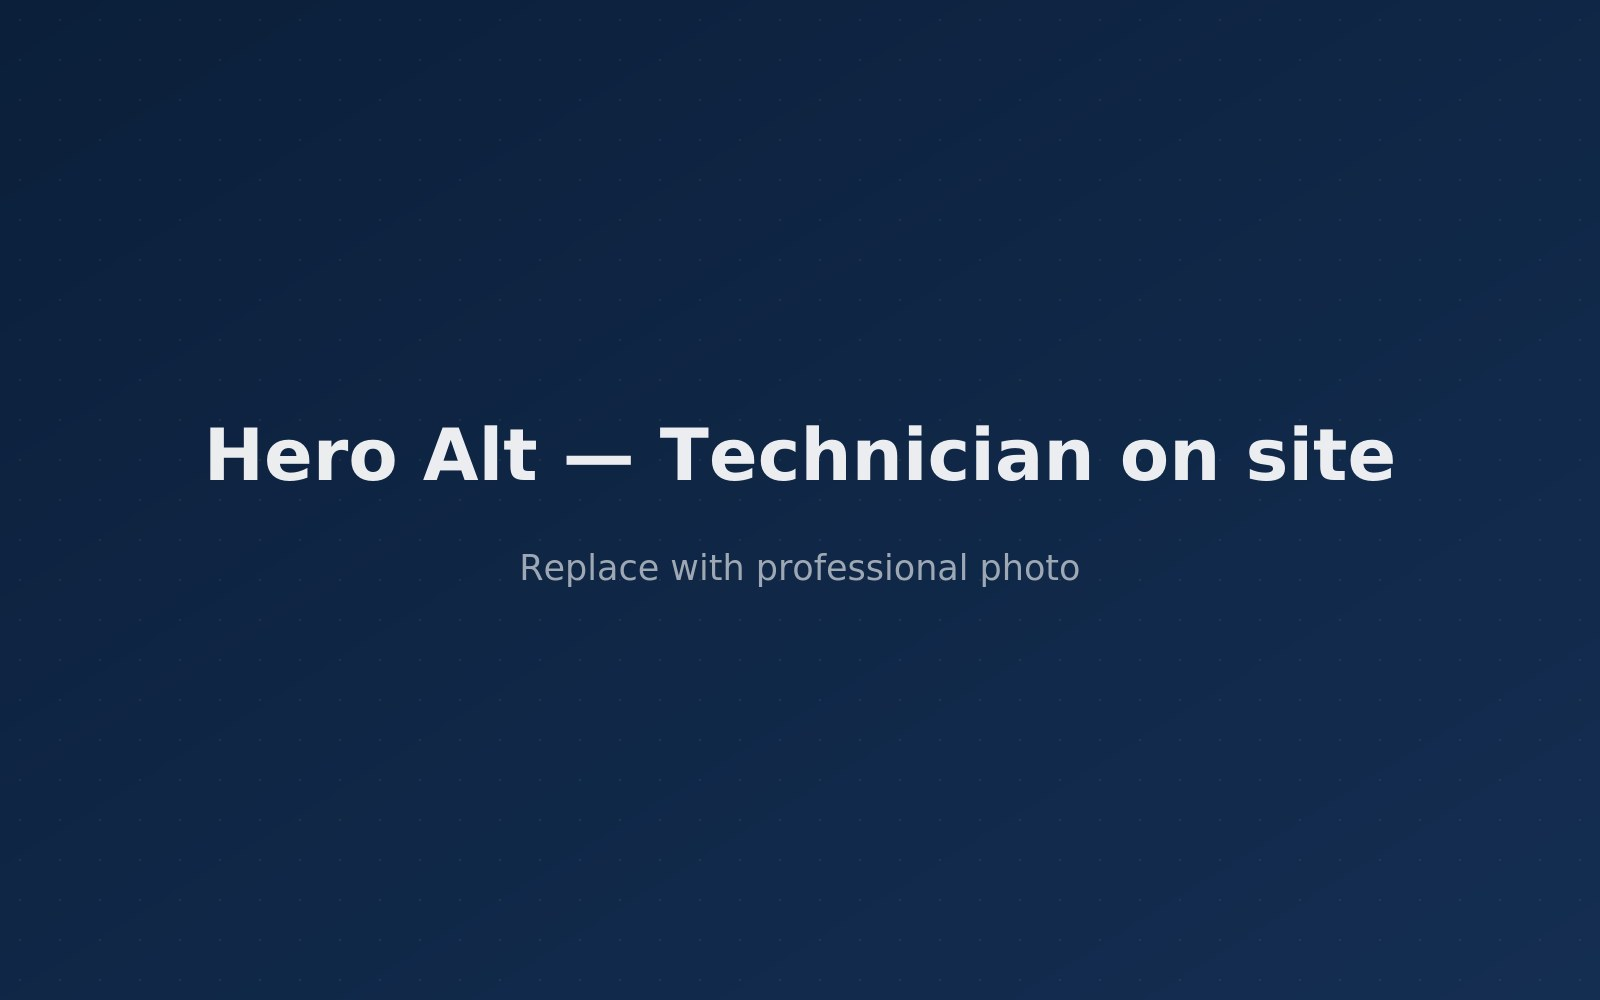
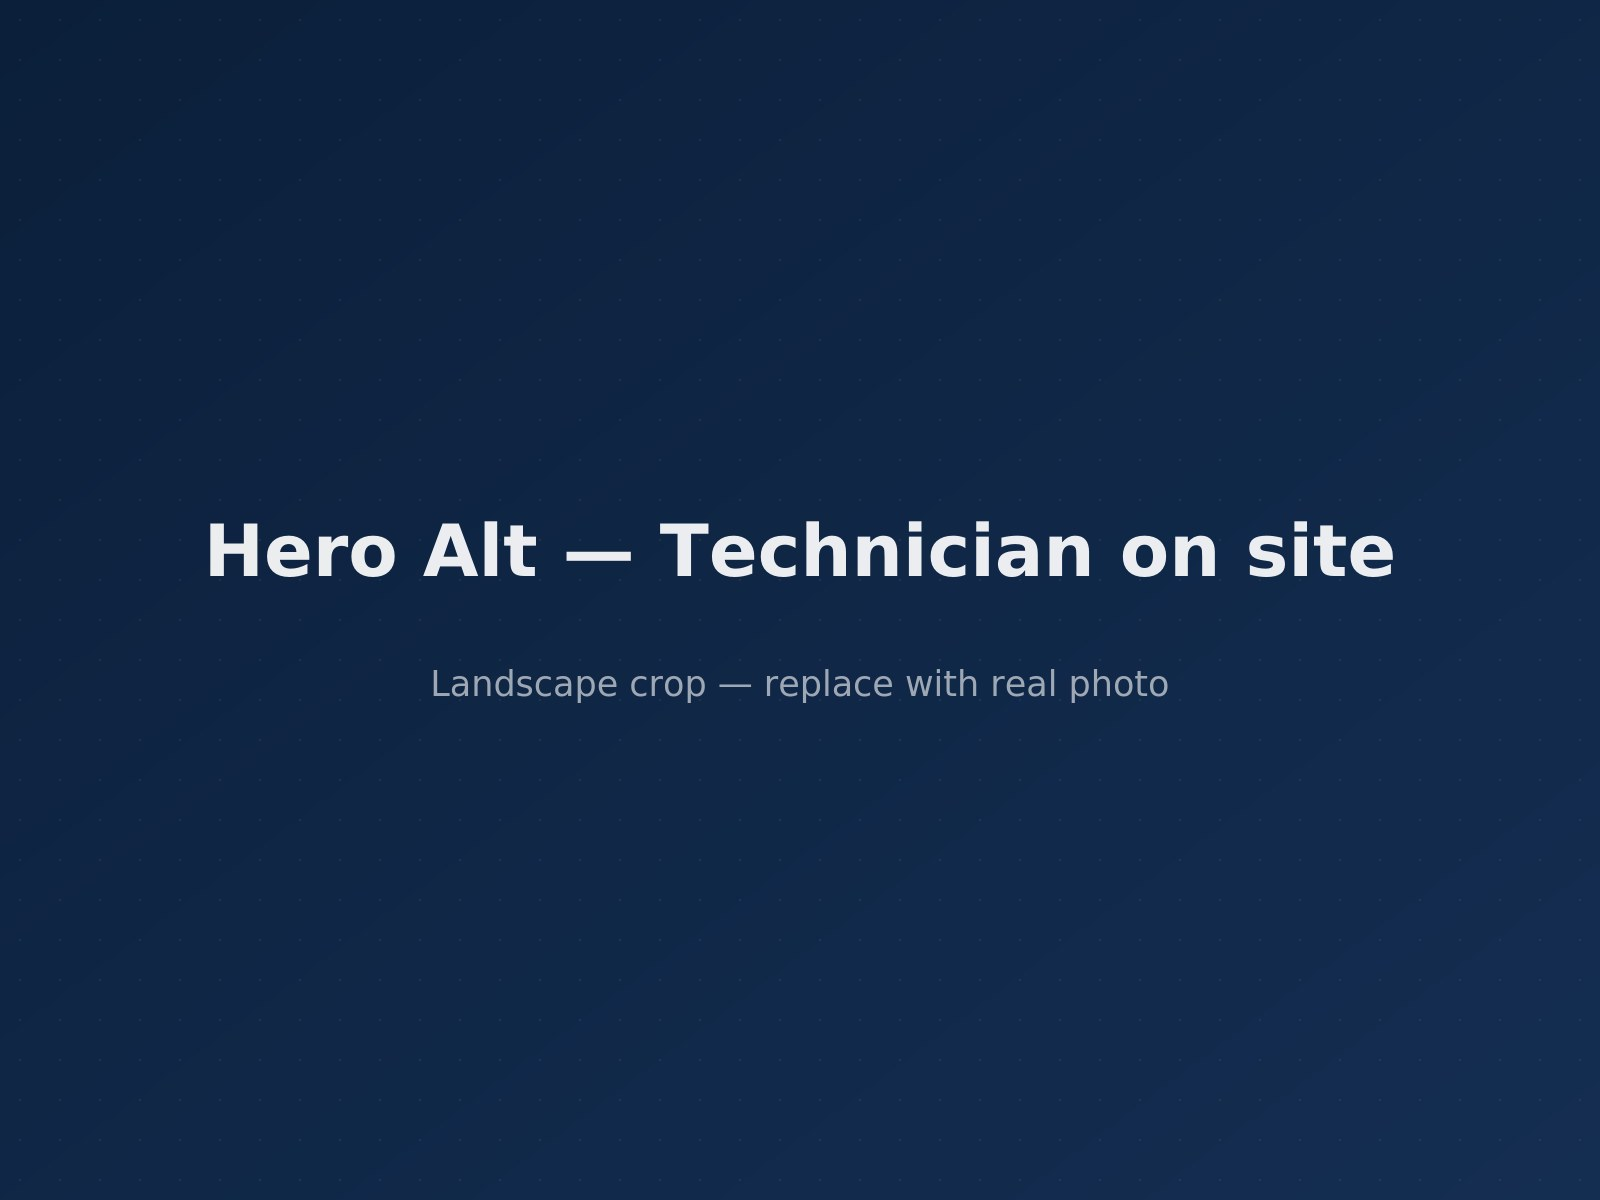
Update plumbing website

Changed region(s): [[0.125, 0.403, 0.75, 0.465], [0.2812, 0.558, 0.75, 0.589], [0.7812, 0.434, 0.875, 0.496]]

diff --git a/index.html b/index.html
@@ -84,24 +84,29 @@
         </div>
       </div>
 
-      <div class="response-card" aria-hidden="false">
-        <div class="radar">
-          <div class="radar-sweep"></div>
-          <div class="radar-dot" style="top:38%;left:62%;"></div>
-          <div class="radar-dot" style="top:66%;left:34%;width:7px;height:7px;"></div>
+      <div class="hero-visual">
+        <div class="hero-image-wrap">
+          <img src="images/hero/hero-plumber.jpg" alt="Licensed Plumbing Services technician at work on a plumbing installation in Nairobi" class="hero-image" width="1600" height="1000">
         </div>
-        <div class="response-figures">
-          <div>
-            <span class="num">22 min</span>
-            <span class="lbl">Avg. Response</span>
+        <div class="response-card hero-floating-card" aria-hidden="false">
+          <div class="radar">
+            <div class="radar-sweep"></div>
+            <div class="radar-dot" style="top:38%;left:62%;"></div>
+            <div class="radar-dot" style="top:66%;left:34%;width:7px;height:7px;"></div>
           </div>
-          <div>
-            <span class="num">24/7</span>
-            <span class="lbl">Always On Call</span>
-          </div>
-          <div>
-            <span class="num">186+</span>
-            <span class="lbl">5★ Reviews</span>
+          <div class="response-figures">
+            <div>
+              <span class="num">22 min</span>
+              <span class="lbl">Avg. Response</span>
+            </div>
+            <div>
+              <span class="num">24/7</span>
+              <span class="lbl">Always On Call</span>
+            </div>
+            <div>
+              <span class="num">186+</span>
+              <span class="lbl">5★ Reviews</span>
+            </div>
           </div>
         </div>
       </div>

diff --git a/css/responsive.css b/css/responsive.css
@@ -20,7 +20,12 @@
   .header-actions .btn-navy, .header-actions .btn-whatsapp { display: none; }
   .nav-toggle { display: flex; }
   .hero-grid { grid-template-columns: 1fr; }
-  .response-card { max-width: 420px; margin-inline: auto; }
+  .hero-visual { margin-top: 12px; }
+  .hero-image-wrap { aspect-ratio: 16 / 10; }
+  .hero-floating-card.response-card {
+    position: static; left: auto; bottom: auto;
+    width: min(420px, 94%); margin: -56px auto 0;
+  }
   .areas-map-grid { grid-template-columns: 1fr; }
   .contact-grid { grid-template-columns: 1fr; }
   .footer-grid { grid-template-columns: 1fr 1fr; row-gap: 40px; }
@@ -40,6 +45,8 @@
   .coverage-list { columns: 1; }
   .hero-cta-row .btn, .cta-banner .hero-cta-row .btn { width: 100%; }
   .hero-cta-row, .cta-banner .hero-cta-row { flex-direction: column; }
+  .hero-image-wrap { aspect-ratio: 4 / 3; }
+  .hero-floating-card.response-card { margin-top: -40px; padding: 22px; }
   .trust-strip .container { justify-content: center; text-align: center; }
   .footer-bottom { flex-direction: column; text-align: center; }
 }

diff --git a/css/style.css b/css/style.css
@@ -218,6 +218,21 @@ p { margin: 0; }
 .hero-trust-item { display: flex; align-items: center; gap: 10px; font-size: 0.85rem; font-weight: 600; color: rgba(255,255,255,0.82); }
 .hero-trust-item svg { width: 20px; height: 20px; color: var(--gold-light); flex-shrink: 0; }
 
+/* Hero visual: large image with floating response card overlay */
+.hero-visual { position: relative; }
+.hero-image-wrap {
+  border-radius: var(--r-xl); overflow: hidden; box-shadow: var(--shadow-lg);
+  aspect-ratio: 4 / 5; border: 1px solid rgba(255,255,255,0.14);
+}
+.hero-image {
+  width: 100%; height: 100%; object-fit: cover; display: block;
+  animation: heroImageIn 1s .2s cubic-bezier(.2,.8,.2,1) both;
+}
+.hero-floating-card.response-card {
+  position: absolute; left: -28px; bottom: -34px; width: min(300px, 78%); z-index: 3;
+  background: rgba(11,31,58,0.72);
+}
+
 /* Signature element: live response radar */
 .response-card {
   position: relative; background: rgba(255,255,255,0.05); border: 1px solid rgba(255,255,255,0.14);

diff --git a/css/animations.css b/css/animations.css
@@ -28,6 +28,7 @@
 
 @keyframes heroUp { from { opacity: 0; transform: translateY(22px); } to { opacity: 1; transform: translateY(0); } }
 @keyframes heroScale { from { opacity: 0; transform: translateY(20px) scale(0.96); } to { opacity: 1; transform: translateY(0) scale(1); } }
+@keyframes heroImageIn { from { opacity: 0; transform: scale(1.06); } to { opacity: 1; transform: scale(1); } }
 
 /* Marquee-like trust strip micro entrance */
 .trust-strip-item { animation: fadeIn .6s ease both; }

diff --git a/image-shopping-list.md b/image-shopping-list.md
@@ -1,0 +1,78 @@
+# Image Shopping List — Plumbing Services Website
+
+35 placeholder slots, matched to search terms for **[Unsplash](https://unsplash.com)** and **[Pexels](https://pexels.com)** — both free for commercial use, no attribution required. Download, rename to the filename shown, and drop into the matching folder. Full replacement steps are in `README.md`.
+
+**Tip:** click a slot's folder link below, search the suggested term, and pick the photo that best matches the description column.
+
+---
+
+## `/images/hero/`
+
+| Filename | Recommended shape | Search term | What to look for |
+|---|---|---|---|
+| `hero-plumber.jpg` | Portrait/tall — crops to 4:5 on desktop, 16:10 on tablet, 4:3 on mobile. A vertical shot with the subject centered (not too close to the top/bottom edges) crops safely across all three. Minimum ~1400×1750px. | `plumber fixing pipe` or `professional plumber at work` | **Homepage hero** (`index.html`) — large image on the right side of the hero, with the "22 min avg. response" radar card floating over its bottom-left corner. Also used as the Open Graph/social preview image. |
+| `hero-plumber-2.jpg` | Landscape, 4:3. Minimum ~1600×1200px. | `plumber toolbox kneeling` or `plumber bathroom repair` | **About page** (`about.html`) — the "Our Story" section image, paired with the founding-story copy. |
+
+## `/images/services/` — 800×600px, landscape
+
+| Filename | Search term |
+|---|---|
+| `emergency-plumbing.jpg` | `emergency plumber burst pipe` |
+| `leak-detection.jpg` | `plumber leak detection equipment` |
+| `pipe-installation.jpg` | `copper pipe installation` |
+| `pipe-repairs.jpg` | `plumber pipe wrench repair` |
+| `drain-cleaning.jpg` | `drain cleaning jetting` |
+| `bathroom-renovation.jpg` | `modern bathroom renovation` |
+| `kitchen-plumbing.jpg` | `kitchen sink plumbing installation` |
+| `water-tank-installation.jpg` | `rooftop water tank` |
+| `pump-installation.jpg` | `water pump installation` |
+| `commercial-plumbing.jpg` | `commercial building plumbing` |
+| `residential-plumbing.jpg` | `home plumbing repair` |
+| `water-heater-installation.jpg` | `water heater installation` |
+| `toilet-installation.jpg` | `toilet installation bathroom` |
+| `tap-installation.jpg` | `kitchen faucet installation` |
+| `blocked-drains.jpg` | `blocked drain unclogging` |
+| `blocked-sinks.jpg` | `clogged sink plumber` |
+| `material-supply.jpg` | `plumbing pipes fittings supplies` |
+
+## `/images/gallery/` — mix of 700×700px (square) and 700×900px (portrait)
+
+| Filename | Search term |
+|---|---|
+| `gallery-1.jpg` (square) | `bathroom installation finished` |
+| `gallery-2.jpg` (portrait) | `copper pipework closeup` |
+| `gallery-3.jpg` (square) | `kitchen plumbing finished` |
+| `gallery-4.jpg` (portrait) | `commercial plumbing office building` |
+| `gallery-5.jpg` (square) | `modern shower installation` |
+| `gallery-6.jpg` (portrait) | `rooftop water tank installation` |
+| `gallery-7.jpg` (square) | `kitchen tap sink closeup` |
+| `gallery-8.jpg` (portrait) | `drain maintenance commercial` |
+
+## `/images/before-after/` — 800×600px pairs
+
+| Filename | Search term |
+|---|---|
+| `before-1.jpg` | `old bathroom pipes damaged` |
+| `after-1.jpg` | `renovated bathroom plumbing` |
+| `before-2.jpg` | `old kitchen plumbing worn` |
+| `after-2.jpg` | `new kitchen plumbing installed` |
+
+## `/images/team/` — 500×500px, square, headshot-style
+
+| Filename | Search term |
+|---|---|
+| `team-1.jpg` | `plumber portrait professional` |
+| `team-2.jpg` | `businesswoman office portrait` |
+| `team-3.jpg` | `tradesman portrait smiling` |
+| `team-4.jpg` | `technician portrait uniform` |
+
+> Note: these are placeholder team photos. For a real "About" page, real staff photos always land better than stock headshots — consider swapping these first if you have any team pictures on hand, even phone-quality ones.
+
+---
+
+## Fastest path
+
+If you want a shortcut: Unsplash's `/s/photos/` URL pattern lets you jump straight to results, e.g.:
+`https://unsplash.com/s/photos/plumber-fixing-pipe`
+
+Just swap the search term (spaces → hyphens) into that URL pattern for any row above.

diff --git a/README.md b/README.md
@@ -63,8 +63,13 @@ Every image slot on the site already points to a `.jpg` filename under `/images/
 
 A full slot-by-slot list of filenames with suggested search terms for free stock photo sites is in `image-shopping-list.md` (provided alongside this project).
 
+**Where the two hero images specifically render:**
+- `images/hero/hero-plumber.jpg` — the large image on the right side of the **homepage hero** (`index.html`), with the "22 min avg. response" radar card floating over its bottom-left corner. It's also reused as the Open Graph / social-share preview image. Since the container crops to a tall 4:5 ratio on desktop (shifting to wider ratios on tablet/mobile), pick a vertical or centered shot — see `image-shopping-list.md` for exact minimum dimensions.
+- `images/hero/hero-plumber-2.jpg` — the photo in the **About page's** "Our Story" section (`about.html`), next to the founding-story copy. This one crops to a 4:3 landscape box.
+
 Recommended sizes:
-- Hero images: 1600×1000px
+- Hero image (homepage, `hero-plumber.jpg`): portrait-leaning, minimum ~1400×1750px
+- Hero image (About page, `hero-plumber-2.jpg`): landscape, minimum ~1600×1200px
 - Service card images: 800×600px
 - Gallery images: 700×700px or 700×900px
 - Team photos: 500×500px (square)
